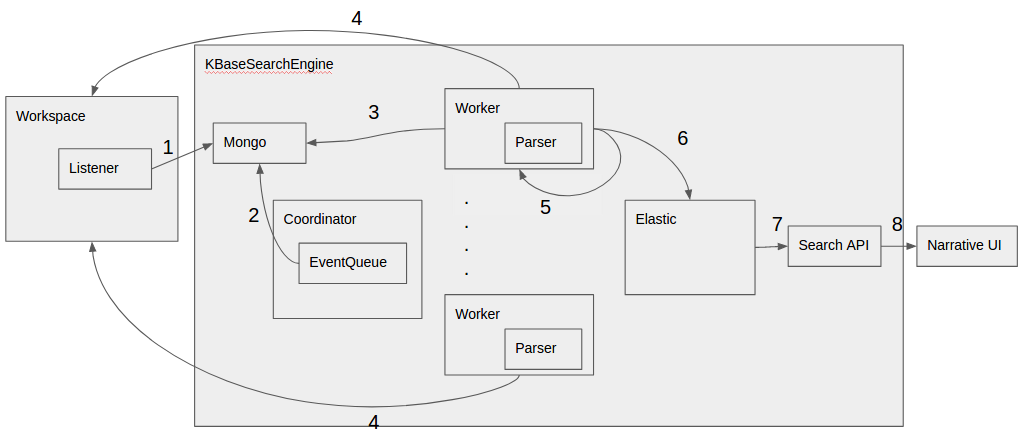
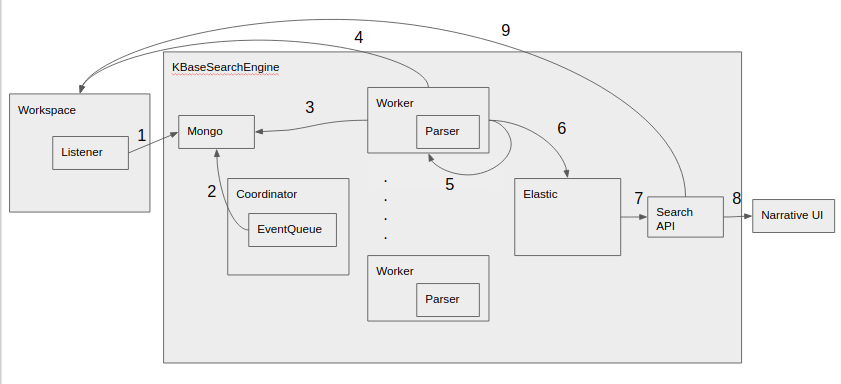
added notes on use of decorators

diff --git a/docsource/architectureHighLevelDesign.rst b/docsource/architectureHighLevelDesign.rst
@@ -27,3 +27,5 @@ Data Flow
 6. Once the event has been processed successfully, the corresponding object is (re-)indexed into the ElasticSearch index and the event state in the mongo instance is set to INDX (or indexed).
 
 7&8. Queries from the narrative UI are serviced by the search API which in turn makes queries to the ElasticSearch index.
+
+9. A sequence of decarotors make calls to the workspace to collect narrative and other information. The reasoning behind this is because the narrative info that is desired by the front is mutable, and so indexing it is expensive in that a change in the narrative (a name change for example) could require updating millions, or even billions, of records, since every subobject of every version of every object in the workspace would need to be updated.

diff --git a/docsource/knownIssues.rst b/docsource/knownIssues.rst
@@ -1,2 +1,4 @@
 Known Issues
 =============
+
+1. A sequence of decarotors make calls to the workspace to collect narrative and other information. The reasoning behind this is because the narrative info that is desired by the front is mutable, and so indexing it is expensive in that a change in the narrative (a name change for example) could require updating millions, or even billions, of records, since every subobject of every version of every object in the workspace would need to be updated. There is room here to simplify design by eliminating these decorators and using parent-child relationships.
